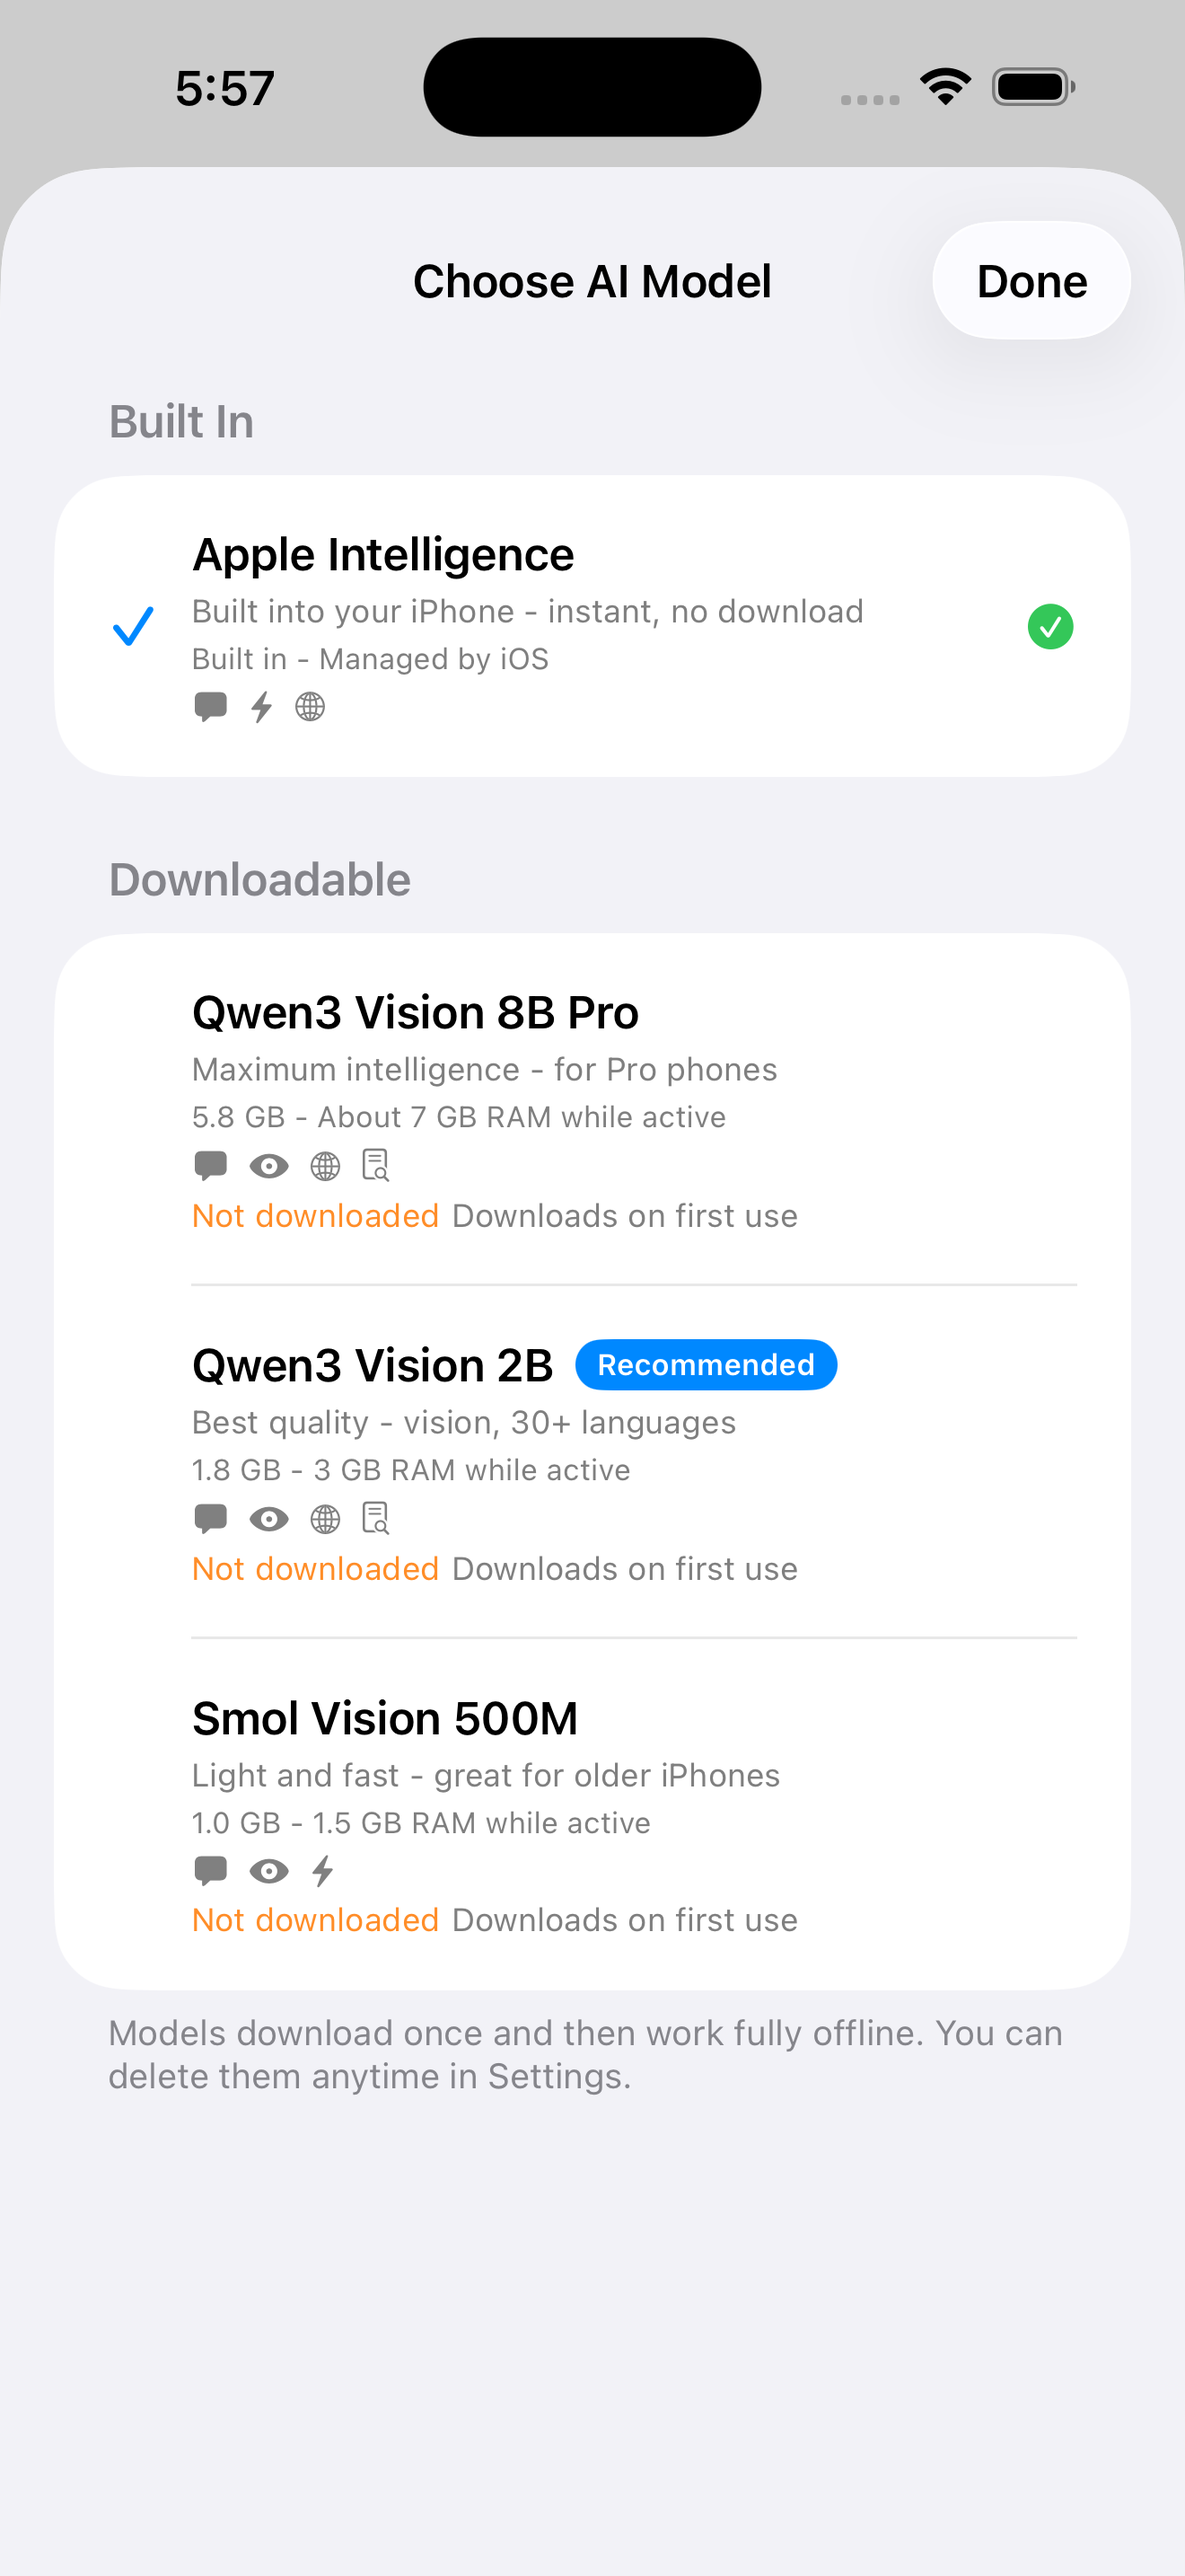
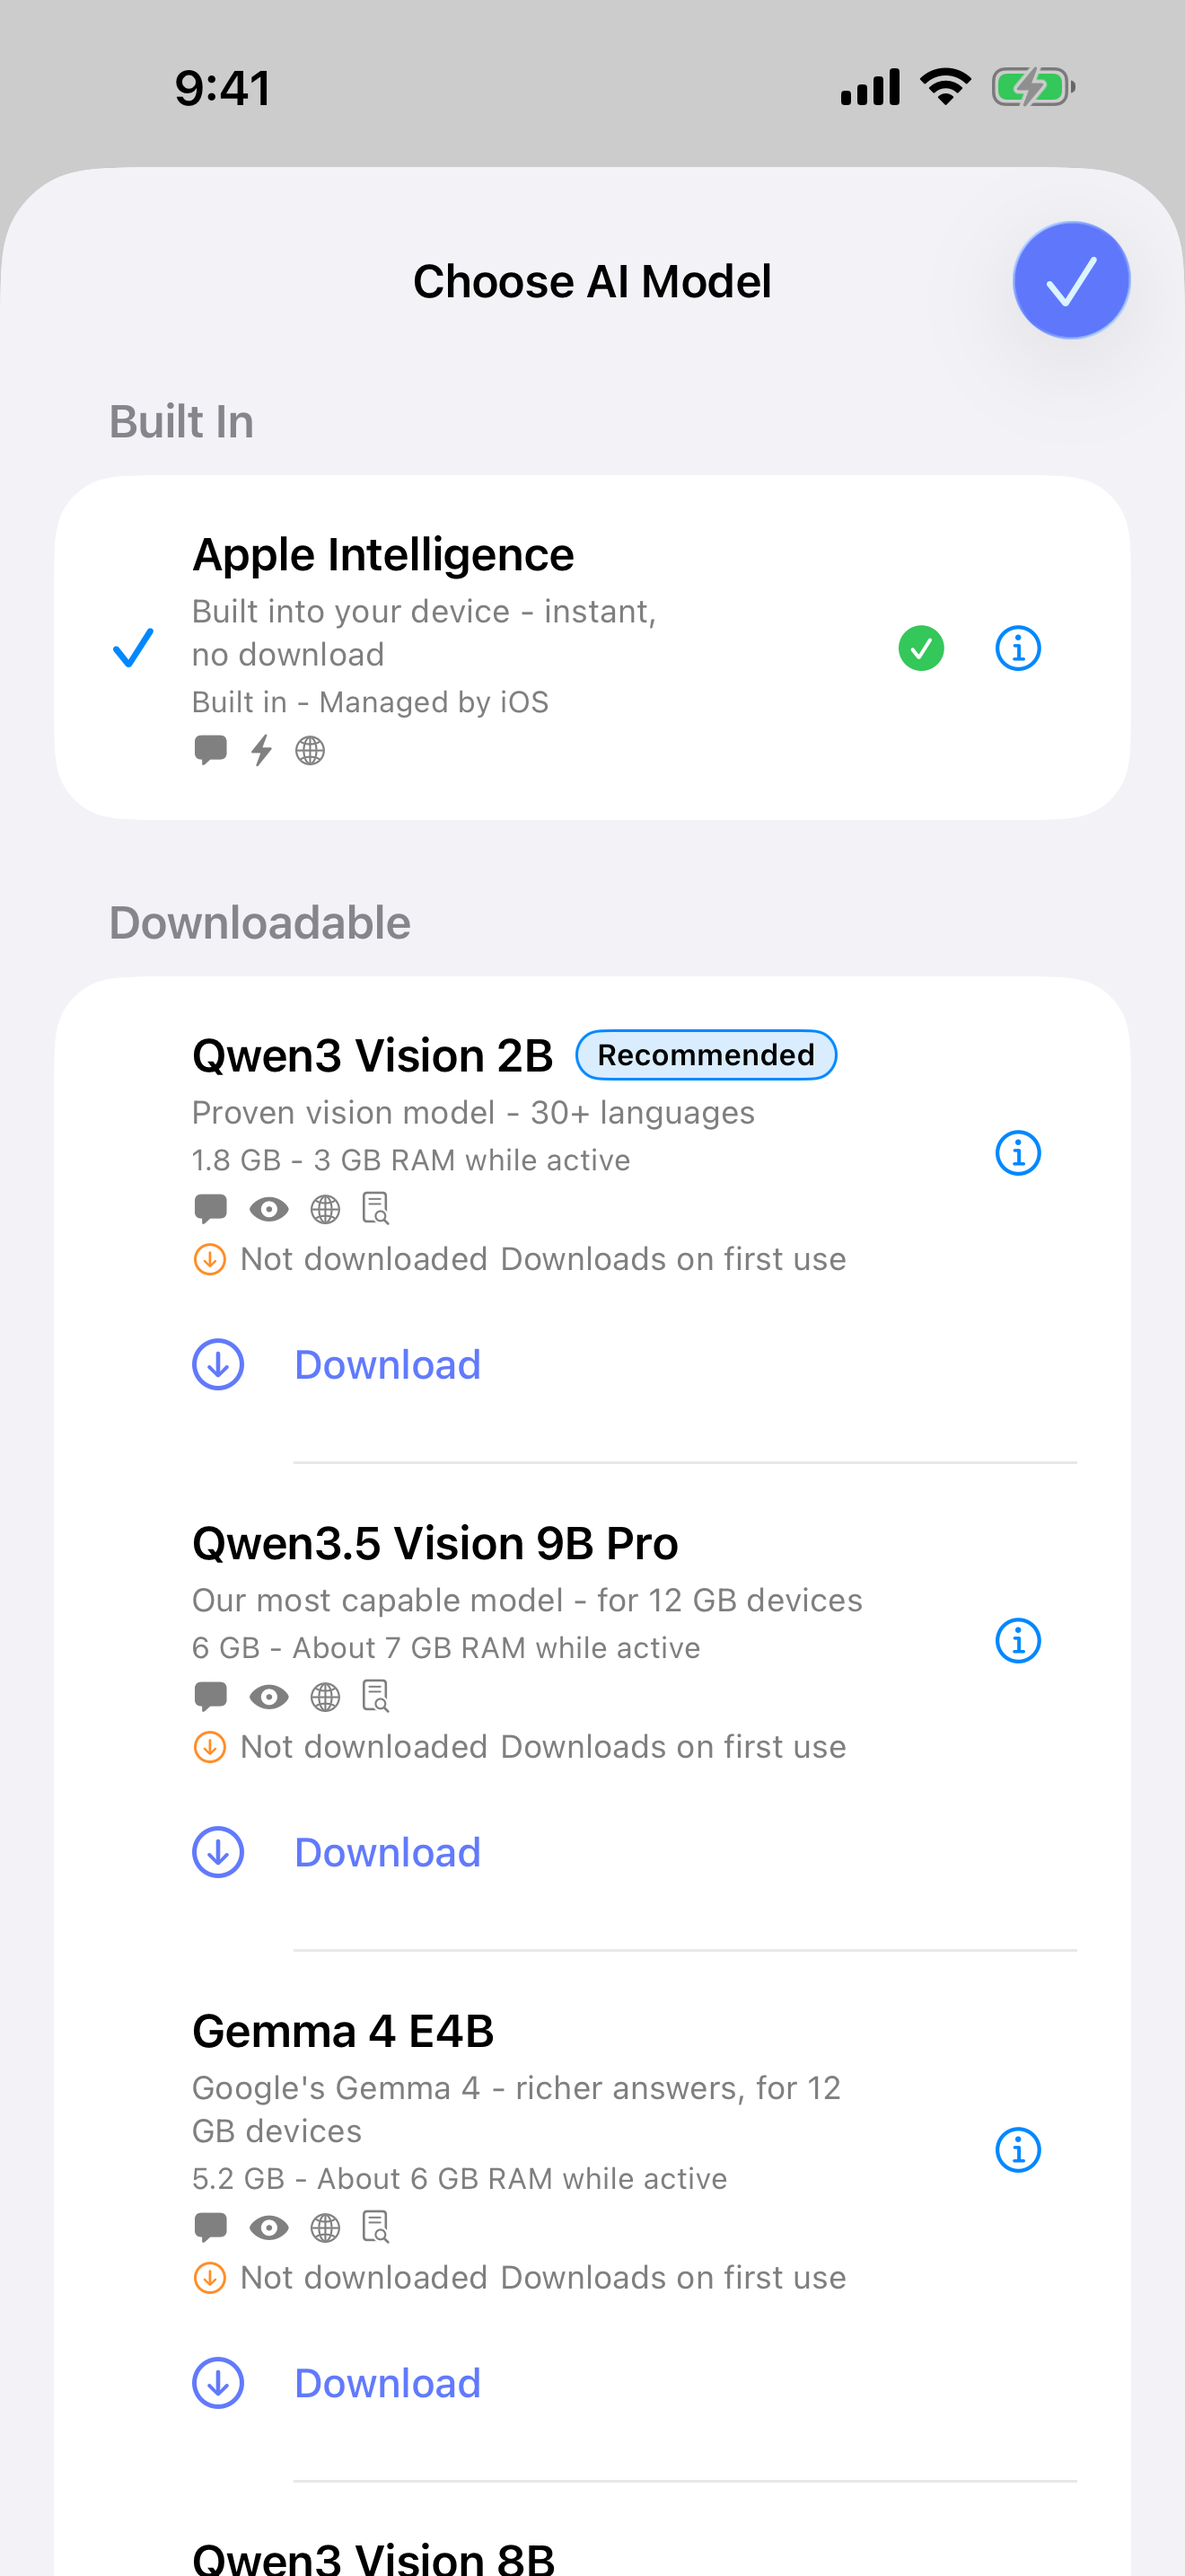
Store screenshot 4 (model picker) re-shot with the new catalog; UI test for just that shot

diff --git a/AIGoodbye/AIGoodbyeUITests/AIGoodbyeStoreShots.swift b/AIGoodbye/AIGoodbyeUITests/AIGoodbyeStoreShots.swift
@@ -77,6 +77,27 @@ final class AIGoodbyeStoreShots: XCTestCase {
         }
     }
 
+    /// Just the model picker, for refreshing that one store screenshot when
+    /// the catalog changes without re-shooting the rest.
+    @MainActor
+    func testModelPickerShot() throws {
+        let app = launch(conversation: sunday)
+        var chooseModel = app.buttons["Choose Model"].firstMatch
+        // On a phone it lives in the chat options menu.
+        if !(chooseModel.exists && chooseModel.isHittable) {
+            let options = app.buttons["Chat options"].firstMatch
+            if options.waitForExistence(timeout: 5) {
+                options.tap()
+                sleep(1)
+                chooseModel = app.buttons["Choose Model"].firstMatch
+            }
+        }
+        XCTAssertTrue(chooseModel.waitForExistence(timeout: 5))
+        chooseModel.tap()
+        sleep(2)
+        snap(app, "06-models")
+    }
+
     @MainActor
     private func launch(conversation: String, extraEnvironment: [String: String] = [:]) -> XCUIApplication {
         let app = XCUIApplication()
